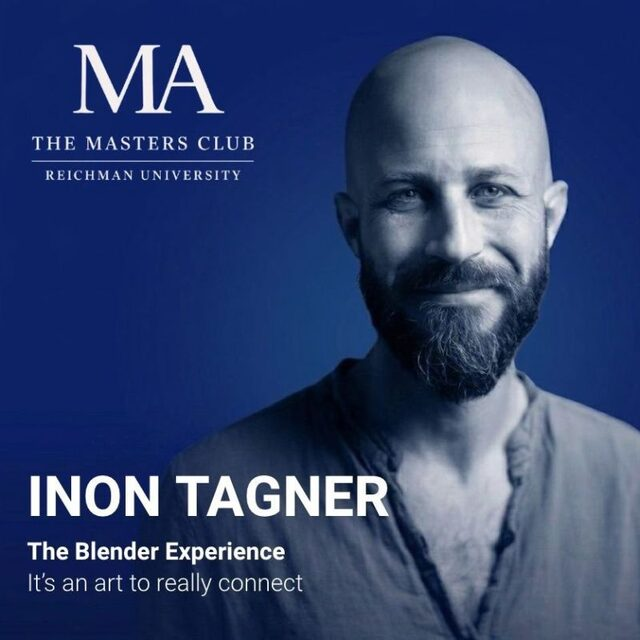
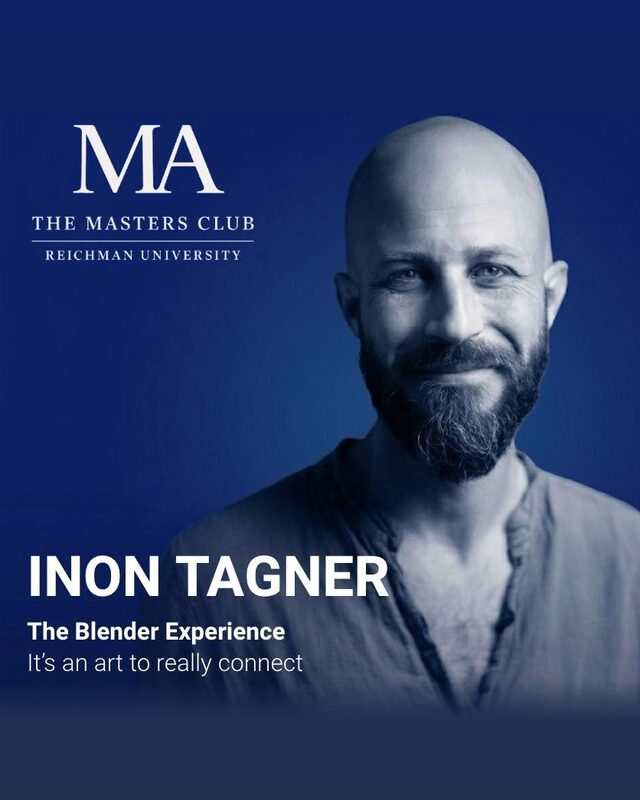
Deploy 7ae8f41

diff --git a/css/styles.css b/css/styles.css
@@ -206,7 +206,7 @@ input[type=checkbox] { width: 18px; height: 18px; margin: 0; cursor: pointer; }
 .past-head { display: flex; flex-wrap: wrap; align-items: baseline; justify-content: space-between; gap: 12px 24px; margin-bottom: 28px; }
 .rail { display: grid; grid-template-columns: repeat(5, 1fr); gap: 16px; }
 .rail a { display: block; text-decoration: none; }
-.rail img { width: 100%; height: auto; aspect-ratio: 1; object-fit: cover; border-radius: var(--radius); background: var(--navy); transition: transform .3s cubic-bezier(.16, 1, .3, 1); }
+.rail img { width: 100%; height: auto; aspect-ratio: 4 / 5; object-fit: contain; border-radius: var(--radius); background: var(--navy); transition: transform .3s cubic-bezier(.16, 1, .3, 1); }
 .rail a:hover img { transform: translateY(-4px); }
 .rail .who { display: block; font-family: var(--display); font-size: 1.15rem; font-weight: 500; margin-top: 12px; line-height: 1.2; }
 .rail .when { display: block; color: var(--muted); font-size: var(--s-small); margin-top: 2px; }
@@ -221,7 +221,7 @@ input[type=checkbox] { width: 18px; height: 18px; margin: 0; cursor: pointer; }
 .meeting { display: grid; grid-template-columns: 5fr 7fr; gap: 32px 56px; align-items: start; scroll-margin-top: 100px; }
 .meeting:nth-child(even) { grid-template-columns: 7fr 5fr; }
 .meeting:nth-child(even) .poster { order: 2; }
-.meeting .poster { width: 100%; height: auto; aspect-ratio: 1; border-radius: var(--radius); background: var(--navy); position: sticky; top: 100px; }
+.meeting .poster { width: 100%; height: auto; aspect-ratio: 4 / 5; object-fit: contain; border-radius: var(--radius); background: var(--navy); position: sticky; top: 100px; }
 .meeting .meta { display: flex; flex-wrap: wrap; gap: 4px 14px; align-items: baseline; margin: 0 0 14px; font-size: var(--s-small); color: var(--muted); }
 .meeting .meta time { font-weight: 700; color: var(--navy); }
 .meeting h2 { font-size: clamp(2rem, 1.4rem + 2vw, 3rem); }

diff --git a/index.html b/index.html
@@ -20,7 +20,7 @@
 <meta name="twitter:card" content="summary_large_image">
 <link rel="preconnect" href="https://fonts.googleapis.com">
 <link href="https://fonts.googleapis.com/css2?family=Assistant:wght@400;500;600;700&family=Frank+Ruhl+Libre:wght@400;500;600;700&display=swap" rel="stylesheet">
-<link rel="stylesheet" href="css/styles.css?v=c49834d">
+<link rel="stylesheet" href="css/styles.css?v=7ae8f41">
 </head>
 <body>
 
@@ -41,17 +41,17 @@
 <div class="scrim" id="scrim"><div class="modal" id="modal" role="dialog" aria-modal="true" aria-label="Member profile"></div></div>
 <div class="toast" id="toast" role="status" aria-live="polite"></div>
 
-<script src="js/config.js?v=c49834d"></script>
-<script src="js/content.js?v=c49834d"></script>
-<script src="js/core.js?v=c49834d"></script>
-<script src="js/api.js?v=c49834d"></script>
-<script src="js/app.js?v=c49834d"></script>
-<script src="js/pages/public.js?v=c49834d"></script>
-<script src="js/pages/directory.js?v=c49834d"></script>
-<script src="js/pages/me.js?v=c49834d"></script>
-<script src="js/pages/events.js?v=c49834d"></script>
-<script src="js/pages/board.js?v=c49834d"></script>
-<script src="js/pages/admin.js?v=c49834d"></script>
-<script src="js/main.js?v=c49834d"></script>
+<script src="js/config.js?v=7ae8f41"></script>
+<script src="js/content.js?v=7ae8f41"></script>
+<script src="js/core.js?v=7ae8f41"></script>
+<script src="js/api.js?v=7ae8f41"></script>
+<script src="js/app.js?v=7ae8f41"></script>
+<script src="js/pages/public.js?v=7ae8f41"></script>
+<script src="js/pages/directory.js?v=7ae8f41"></script>
+<script src="js/pages/me.js?v=7ae8f41"></script>
+<script src="js/pages/events.js?v=7ae8f41"></script>
+<script src="js/pages/board.js?v=7ae8f41"></script>
+<script src="js/pages/admin.js?v=7ae8f41"></script>
+<script src="js/main.js?v=7ae8f41"></script>
 </body>
 </html>

diff --git a/js/pages/public.js b/js/pages/public.js
@@ -22,7 +22,7 @@
       '<section class="statement"><div class="wrap"><p>' + esc(c.giveFirst) + ' <span>' + esc(c.giveFirstRest) + '</span></p></div></section>' +
       '<div class="wrap"><section class="past"><div class="past-head"><h2>Who has been in the room</h2><a class="link" href="#/meetings">All meetings</a></div>' +
       '<div class="rail">' + c.meetings.map(function (mt) {
-        return '<a href="#/meetings?m=' + esc(mt.id) + '"><img src="' + esc(mt.poster) + '" alt="" loading="lazy" width="640" height="640">' +
+        return '<a href="#/meetings?m=' + esc(mt.id) + '"><img src="' + esc(mt.poster) + '" alt="" loading="lazy" width="640" height="800">' +
           '<span class="who">' + esc(mt.speaker) + '</span><span class="when">' + esc(longDate(mt.date)) + '</span></a>';
       }).join('') + '</div></section>' +
       '<section class="invite">' +
@@ -47,7 +47,7 @@
       '<p class="lead measure" style="margin-top:16px">Every meeting opens with food and structured networking, then a talk or workshop with someone worth hearing.</p>' +
       '<div class="meetings">' + list.map(function (m, i) {
         return '<article class="meeting" id="m-' + esc(m.id) + '">' +
-          (m.poster ? '<img class="poster" src="' + esc(m.poster) + '" alt="Poster for ' + esc(m.speaker) + '" width="640" height="640"' + (i > 1 ? ' loading="lazy"' : '') + '>' : '') +
+          (m.poster ? '<img class="poster" src="' + esc(m.poster) + '" alt="Poster for ' + esc(m.speaker) + '" width="640" height="800"' + (i > 1 ? ' loading="lazy"' : '') + '>' : '') +
           '<div class="body">' +
           '<p class="meta"><time datetime="' + esc(m.date) + '">' + esc(longDate(m.date)) + '</time><span>' + esc(m.kind) + '</span></p>' +
           '<h2>' + esc(m.speaker) + '</h2><p class="muted role">' + esc(m.role) + '</p>' +

diff --git a/js/core.js b/js/core.js
@@ -574,6 +574,13 @@ var Core = (function () {
     return { ok: true, next: { first: state.first, n: state.n + 1, last: now } };
   }
 
+  // The square to keep from a photo: all of a square one, the middle of a wide one, and near the
+  // top of a tall one, where the face usually is.
+  function cropSquare(w, h) {
+    var side = Math.min(w, h);
+    return { x: Math.round((w - side) / 2), y: h > w ? Math.round((h - side) * 0.2) : 0, side: side };
+  }
+
   /* ---------- sheet and csv safety ---------- */
 
   function sanitizeCell(v) {
@@ -681,6 +688,7 @@ var Core = (function () {
     whatsappUrl: whatsappUrl,
     buildDigest: buildDigest,
     splitPosition: splitPosition,
+    cropSquare: cropSquare,
     isPeopleTable: isPeopleTable,
     parsePeopleTable: parsePeopleTable,
     makeCode: makeCode,

diff --git a/js/pages/me.js b/js/pages/me.js
@@ -90,10 +90,10 @@
       var reader = new FileReader();
       var img = new Image();
       img.onload = function () {
-        var side = Math.min(img.naturalWidth, img.naturalHeight);
+        var box = Core.cropSquare(img.naturalWidth, img.naturalHeight);
         var c = document.createElement('canvas');
         c.width = c.height = 256;
-        c.getContext('2d').drawImage(img, (img.naturalWidth - side) / 2, (img.naturalHeight - side) / 2, side, side, 0, 0, 256, 256);
+        c.getContext('2d').drawImage(img, box.x, box.y, box.side, box.side, 0, 0, 256, 256);
         var q = 0.8;
         var data = c.toDataURL('image/jpeg', q);
         while (data.length > 40000 && q > 0.3) { q -= 0.1; data = c.toDataURL('image/jpeg', q); }
